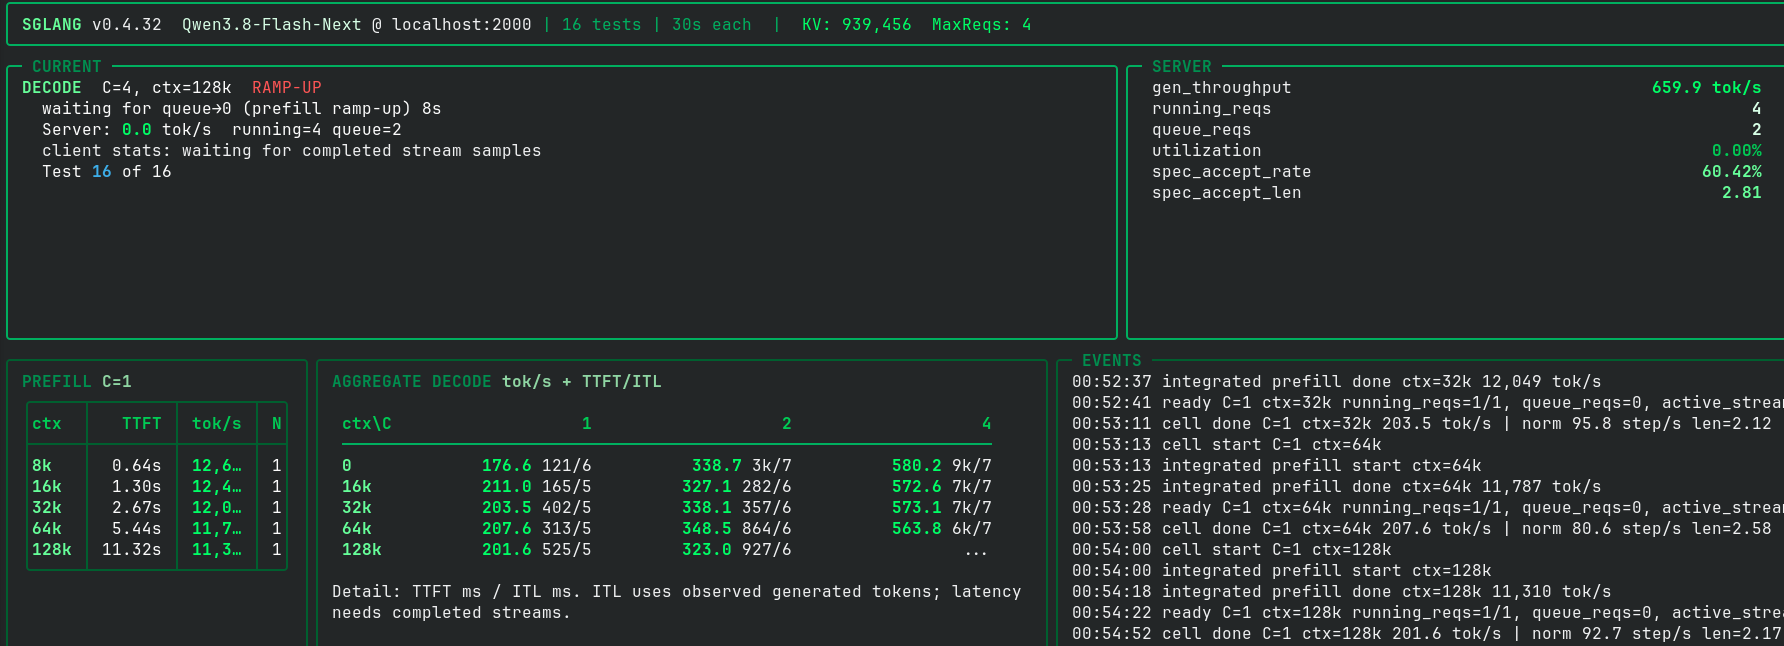
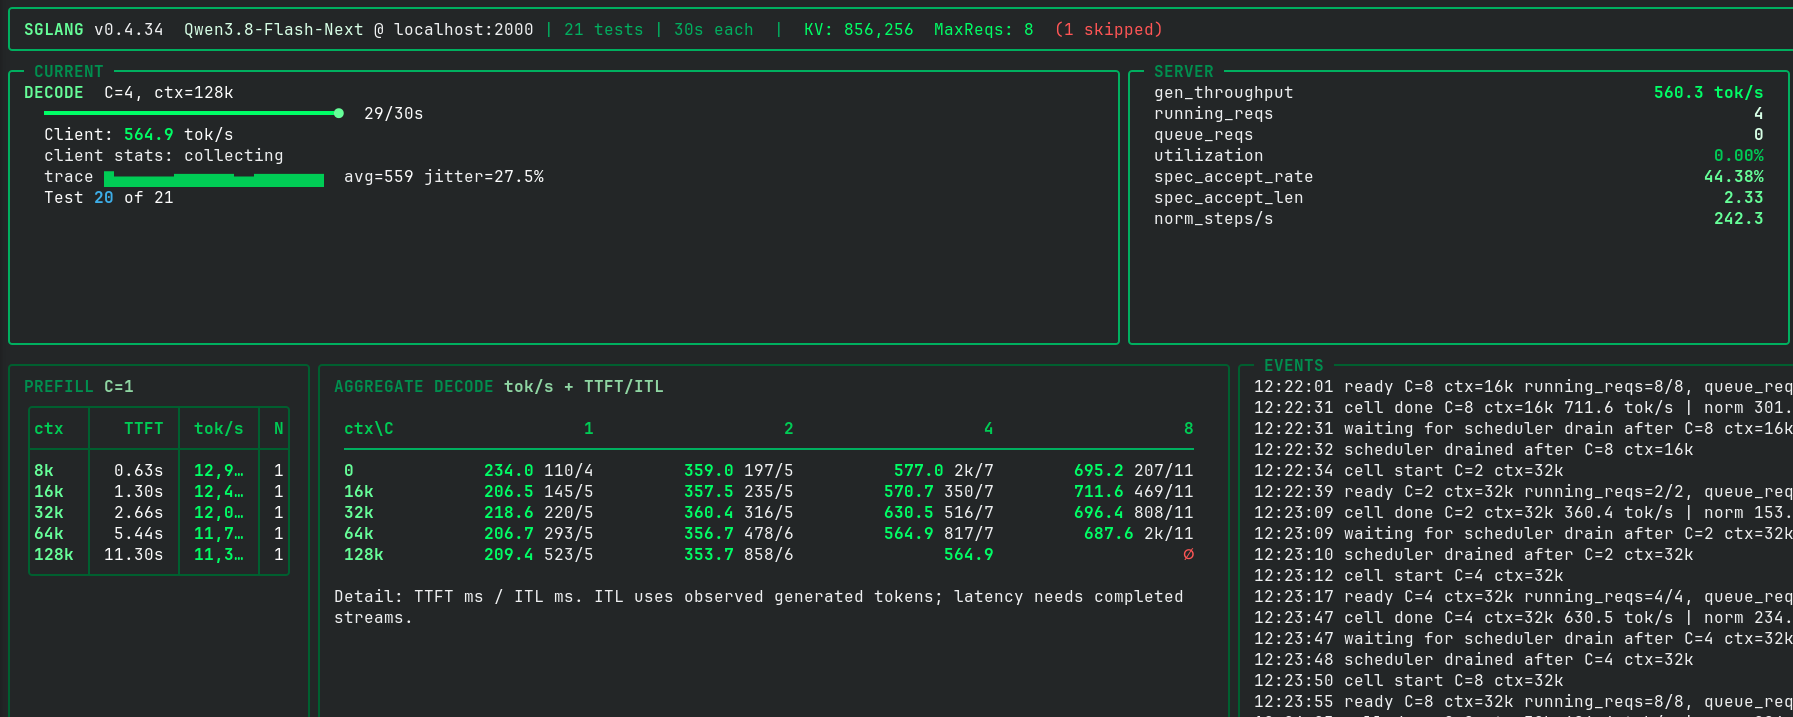
[r21] Enable concurrency=8: fix zombies on cancel requests with /health check reserving a slot

Changed region(s): [[0.0, 0.0, 1.0, 0.9907]]

diff --git a/README.md b/README.md
@@ -12,8 +12,8 @@ Despite being undertrained, and having very few active parameters and a small si
 
 On the NVFP4 checkpoint [`RadixArk/Qwen3.8-Flash-Next-NVFP4`](https://huggingface.co/RadixArk/Qwen3.8-Flash-Next-NVFP4), served by the day-0 SGLang image:
 - 1x RTX Pro 6000, power-limited to 360W, memory overclocked by +3000MT/s (+6000 in LACT)
-- 939456 tokens in KV cache
-- Default 4 max concurrent requests (more requires more linear attention cache which directly eats into KV cache)
+- 939456 tokens in KV cache for 4 max concurrent requests
+- 856256 tokens in KV cache for 8 max concurrent requests
 - 11k~13k prefill tok/s
 
   <details><summary>prefill trace</summary>
@@ -21,23 +21,30 @@ On the NVFP4 checkpoint [`RadixArk/Qwen3.8-Flash-Next-NVFP4`](https://huggingfac
   ![prefill 11k-13k tok/s](images/prefill-11k-13k.png)
 
   </details>
-- 800 decode tok/s (~200 tok/s per stream) on hard-to-predict `--profile estonia` reasoning benchmark from https://github.com/local-inference-lab/llm-inference-bench
+- Aggregate 800 decode tok/s (~200 tok/s per stream) on hard-to-predict `--profile estonia` reasoning benchmark from https://github.com/local-inference-lab/llm-inference-bench
 
   <details><summary>decode trace, 4 concurrent requests</summary>
 
-  ![decode aggregate ~800 tok/s at 4 concurrent requests](images/decode-agg-800.png)
+  ![decode aggregate ~800 tok/s at 4 concurrent requests](images/decode-agg4-800.png)
 
   </details>
-- up to 340 decode tok/s single request on easy to predict code/compaction
+- Aggregate 1170 decode tok/s aggregate at 8 concurrent requests
+
+  <details><summary>decode trace, 8 concurrent requests</summary>
+
+  ![decode aggregate ~1170 tok/s at 8 concurrent requests](images/decode-agg8-1170.png)
+
+  </details>
+- up to 355 decode tok/s single request on easy to predict code/compaction. `--profile lavd`  reasoning benchmark from https://github.com/local-inference-lab/llm-inference-bench
 
   <details><summary>decode trace, single request</summary>
 
-  ![decode single request ~340 tok/s on easy-to-predict code/compaction](images/decode-single-340.png)
+  ![decode single request ~355 tok/s on easy-to-predict code/compaction](images/decode-single-355.png)
 
   </details>
-- 177~211 tok/s single request on hard to predict concurrency benchmark from https://github.com/local-inference-lab/llm-inference-bench
+- 206~234 tok/s single request on hard to predict concurrency benchmark from https://github.com/local-inference-lab/llm-inference-bench
 
-![single request 177~211 tok/s on the hard concurrency benchmark](images/llm-inference-bench.png)
+![single request 206~234 tok/s on the hard concurrency benchmark](images/llm-inference-bench.png)
 
 ## Behind-the-scenes
 
@@ -47,6 +54,7 @@ This builds on top of the day-0 official Docker image `lmsysorg/sglang:qwen38fla
 - **0002** linear-attention layers don't cache MTP drafts, they are recomputed. Saves ~2 GB of KV budget. (And it's surprisingly not slower)
 - **0003** quantizes at load whatever the checkpoint left in bf16 (attention, MLP, lm_head, hyperconnection mix) to MXFP8 to reduce memory bandwidth at close to zero-accuracy cost. On FlashInfer 0.6.18, this should be even faster as FlashInfer 0.6.18 integrates [`local-inference-lab/b12x`](https://github.com/local-inference-lab/b12x) and its hardware-accelerated block-scaled GEMM kernel.
 - **0004** prepares support for https://huggingface.co/local-inference-lab/Qwen3.8-Flash-Next-NVFP4 which has a calibration dataset richer than CNN/DailyMail. This is important to get proper scales for NVFP4 activations so signal isn't lost due to oversaturation because the calibration scale doesn't represent actual maximum.
+- **0005** keeps abandoned runs from eating the machine: an aborted or timed-out client now really evicts its request, and no longer starves the queue behind it.
 
 ## Build and serve
 
@@ -58,7 +66,7 @@ Modify the top of `serve_sglang_qwen3.8-flash-next-example.sh` for your machine:
 - `PODNAME`, `SGLANG_PORT`: container name and port
 
 ```bash
-podman build -t localhost/sglang-qwen38fn-sm120-turbo:r20 .
+podman build -t localhost/sglang-qwen38fn-sm120-turbo:r21 .
 ./serve_sglang_qwen3.8-flash-next-example.sh    # recap of the full config goes to stderr
 curl -s localhost:30000/health
 ```
